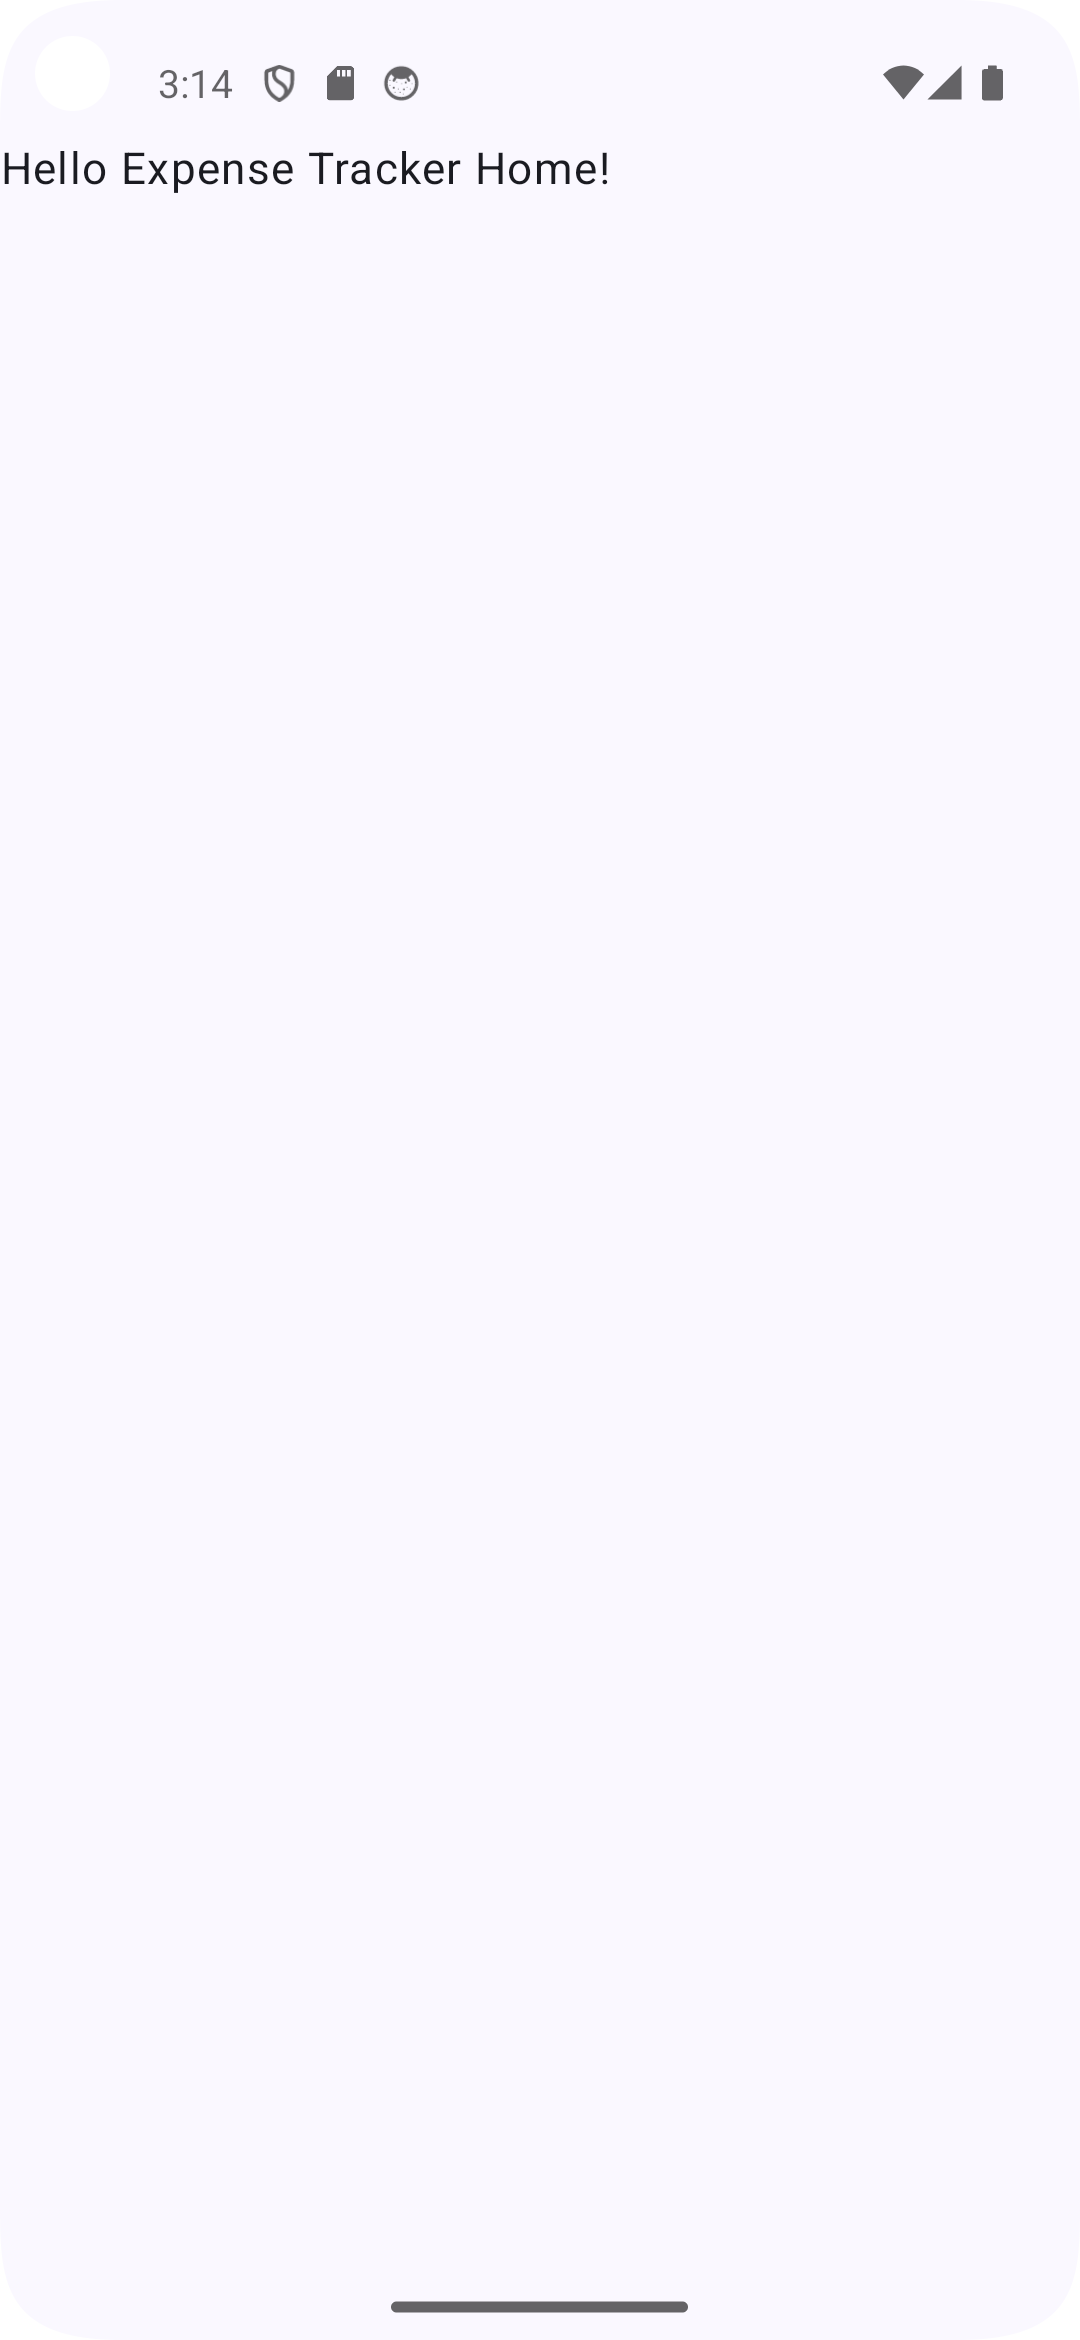
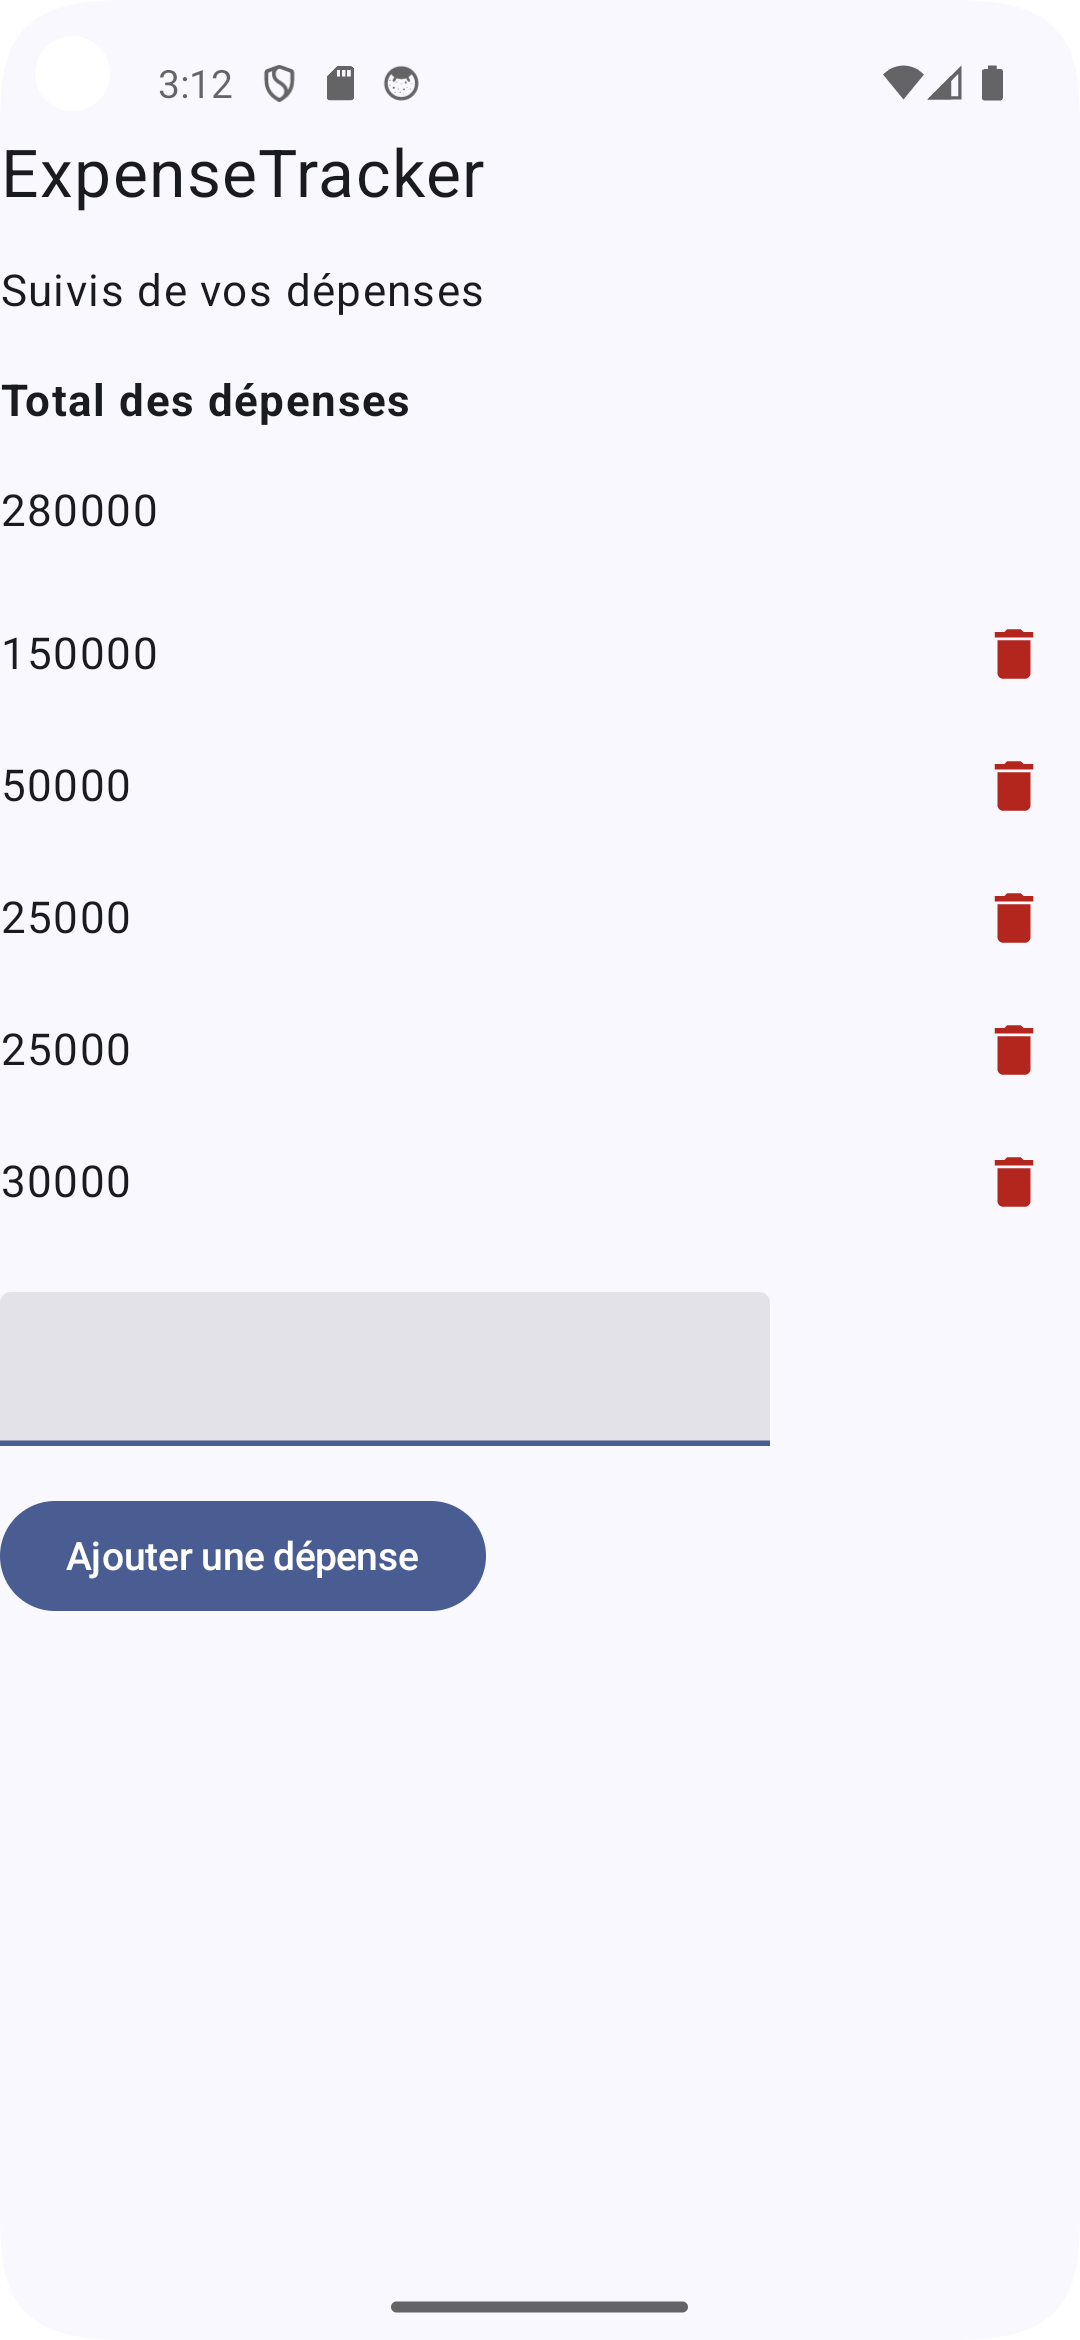
Add expense deletion feature

diff --git a/app/src/main/java/app/mosa/expensetracker/MainActivity.kt b/app/src/main/java/app/mosa/expensetracker/MainActivity.kt
@@ -6,11 +6,18 @@ import androidx.activity.compose.setContent
 import androidx.activity.enableEdgeToEdge
 import androidx.compose.foundation.layout.Arrangement
 import androidx.compose.foundation.layout.Column
+import androidx.compose.foundation.layout.Row
 import androidx.compose.foundation.layout.fillMaxSize
+import androidx.compose.foundation.layout.fillMaxWidth
 import androidx.compose.foundation.layout.padding
 import androidx.compose.foundation.lazy.LazyColumn
 import androidx.compose.foundation.text.KeyboardOptions
+import androidx.compose.material.icons.Icons
+import androidx.compose.material.icons.filled.Delete
 import androidx.compose.material3.Button
+import androidx.compose.material3.Icon
+import androidx.compose.material3.IconButton
+import androidx.compose.material3.MaterialTheme
 import androidx.compose.material3.Scaffold
 import androidx.compose.material3.Text
 import androidx.compose.material3.TextField
@@ -21,6 +28,7 @@ import androidx.compose.runtime.getValue
 import androidx.compose.runtime.mutableStateOf
 import androidx.compose.runtime.remember
 import androidx.compose.runtime.setValue
+import androidx.compose.ui.Alignment
 import androidx.compose.ui.Modifier
 import androidx.compose.ui.text.font.FontWeight
 import androidx.compose.ui.text.input.KeyboardType
@@ -108,9 +116,29 @@ fun HommeScreen(
 
                             val expense = state.expenses[index]
 
-                            Text(
-                                text = expense.amount.toString()
-                            )
+                            Row(
+                                modifier = Modifier.fillMaxWidth(),
+                                horizontalArrangement = Arrangement.SpaceBetween,
+                                verticalAlignment = Alignment.CenterVertically
+                            ) {
+                                //Dépense
+                                Text(
+                                    text = expense.amount.toString()
+                                )
+
+                                //Icone Supprimer
+                                IconButton(
+                                    onClick = {
+                                        viewModel.deleteExpense(expense)
+                                    }
+                                ) {
+                                    Icon(
+                                        imageVector = Icons.Default.Delete,
+                                        contentDescription = "Supprimer cette dépense",
+                                        tint = MaterialTheme.colorScheme.error
+                                    )
+                                }
+                            }
                         }
                     }
                 }

diff --git a/app/src/main/java/app/mosa/expensetracker/ExpenseViewModel.kt b/app/src/main/java/app/mosa/expensetracker/ExpenseViewModel.kt
@@ -3,8 +3,10 @@ package app.mosa.expensetracker
 import androidx.lifecycle.ViewModel
 import androidx.lifecycle.viewModelScope
 import dagger.hilt.android.lifecycle.HiltViewModel
+import kotlinx.coroutines.Job
 import kotlinx.coroutines.flow.MutableStateFlow
 import kotlinx.coroutines.flow.asStateFlow
+import kotlinx.coroutines.flow.catch
 import kotlinx.coroutines.launch
 import javax.inject.Inject
 
@@ -20,7 +22,30 @@ class ExpenseViewModel @Inject constructor(
     //Lire la liste
     val uiState = _uiState.asStateFlow()
 
-    //Modifier la liste
+    private var loadExpensesJob: Job? = null
+
+    fun loadExpenses(){
+
+        loadExpensesJob?.cancel()
+
+        loadExpensesJob = viewModelScope.launch {
+            _uiState.value = ExpenseUiState.Loading
+
+            repository.getExpenses()
+                .catch {
+                    _uiState.value = ExpenseUiState.Error(
+                        message = "Impossible de charger les dépense"
+                    )
+                }
+                .collect { expenses ->
+                    _uiState.value = ExpenseUiState.Success(
+                        expenses = expenses
+                    )
+                }
+        }
+    }
+
+    //Ajouter une dépense
     fun addExpense(
         expense: Expense,
         onSuccess: () -> Unit
@@ -29,15 +54,7 @@ class ExpenseViewModel @Inject constructor(
 
             try {
                 repository.addExpense(expense)
-
-                val expenses = repository.getExpenses()
-
-                _uiState.value = ExpenseUiState.Success(
-                    expenses = expenses
-                )
-
                 onSuccess()
-
             } catch (e: Exception){
                 _uiState.value = ExpenseUiState.Error(
                     message = "Impossible d'ajouter la dépense"
@@ -46,19 +63,16 @@ class ExpenseViewModel @Inject constructor(
         }
     }
 
-    fun loadExpenses(){
+    //Supprimer une dépense
+    fun deleteExpense(
+        expense: Expense
+    ){
         viewModelScope.launch {
-            _uiState.value = ExpenseUiState.Loading
-
             try {
-                val expenses = repository.getExpenses()
-
-                _uiState.value = ExpenseUiState.Success(
-                    expenses = expenses
-                )
+                repository.deleteExpense(expense)
             } catch (e: Exception) {
                 _uiState.value = ExpenseUiState.Error(
-                    message = "Impossible de charger les dépenses"
+                    message = "Impossible de supprimer la dépense"
                 )
             }
         }

diff --git a/app/src/main/java/app/mosa/expensetracker/ExpenseRepositoryImpl.kt b/app/src/main/java/app/mosa/expensetracker/ExpenseRepositoryImpl.kt
@@ -1,5 +1,6 @@
 package app.mosa.expensetracker
 
+import kotlinx.coroutines.flow.Flow
 import javax.inject.Inject
 
 
@@ -7,11 +8,15 @@ class ExpenseRepositoryImpl @Inject constructor(
     private val expenseDao: ExpenseDao
 ) : ExpenseRepository {
 
-    override suspend fun getExpenses(): List<Expense> {
+    override fun getExpenses(): Flow<List<Expense>> {
         return expenseDao.getAllExpenses()
     }
 
     override suspend fun addExpense(expense: Expense) {
         expenseDao.insertExpense(expense)
+    }
+
+    override suspend fun deleteExpense(expense: Expense) {
+        expenseDao.deleteExpense(expense)
     }
 }

diff --git a/app/src/main/java/app/mosa/expensetracker/ExpenseDao.kt b/app/src/main/java/app/mosa/expensetracker/ExpenseDao.kt
@@ -1,16 +1,21 @@
 package app.mosa.expensetracker
 
 import androidx.room.Dao
+import androidx.room.Delete
 import androidx.room.Insert
 import androidx.room.Query
+import kotlinx.coroutines.flow.Flow
 
 @Dao
 interface ExpenseDao {
 
     @Query("SELECT * FROM expenses")
-    suspend fun getAllExpenses(): List<Expense>
+    fun getAllExpenses(): Flow<List<Expense>>
 
     @Insert
     suspend fun insertExpense(expense: Expense)
+
+    @Delete
+    suspend fun deleteExpense(expense: Expense)
 
 }

diff --git a/app/src/main/java/app/mosa/expensetracker/ExpenseRepository.kt b/app/src/main/java/app/mosa/expensetracker/ExpenseRepository.kt
@@ -1,9 +1,13 @@
 package app.mosa.expensetracker
 
+import kotlinx.coroutines.flow.Flow
+
 interface ExpenseRepository {
 
-    suspend fun getExpenses(): List<Expense>
+    fun getExpenses(): Flow<List<Expense>>
 
     suspend fun addExpense(expense: Expense)
+
+    suspend fun deleteExpense(expense: Expense)
 
 }
